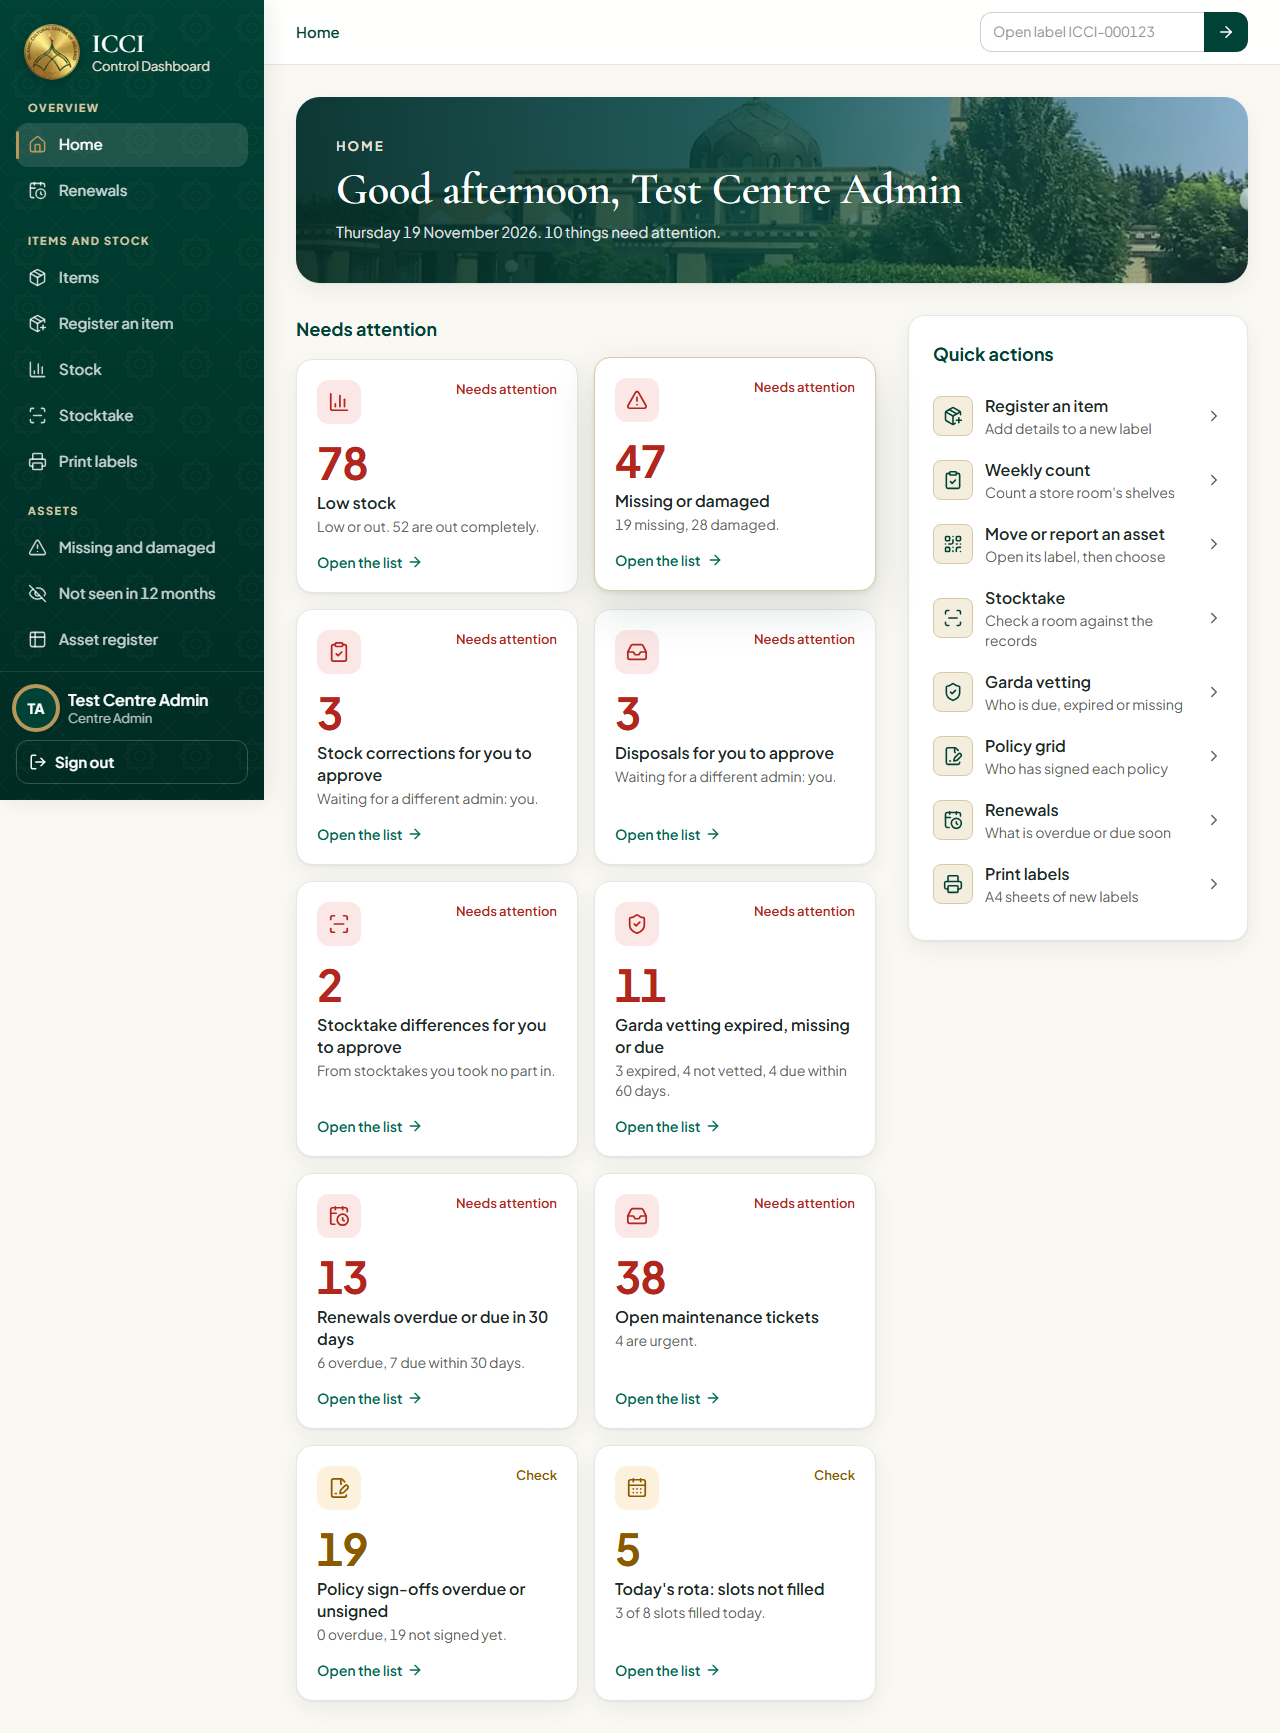
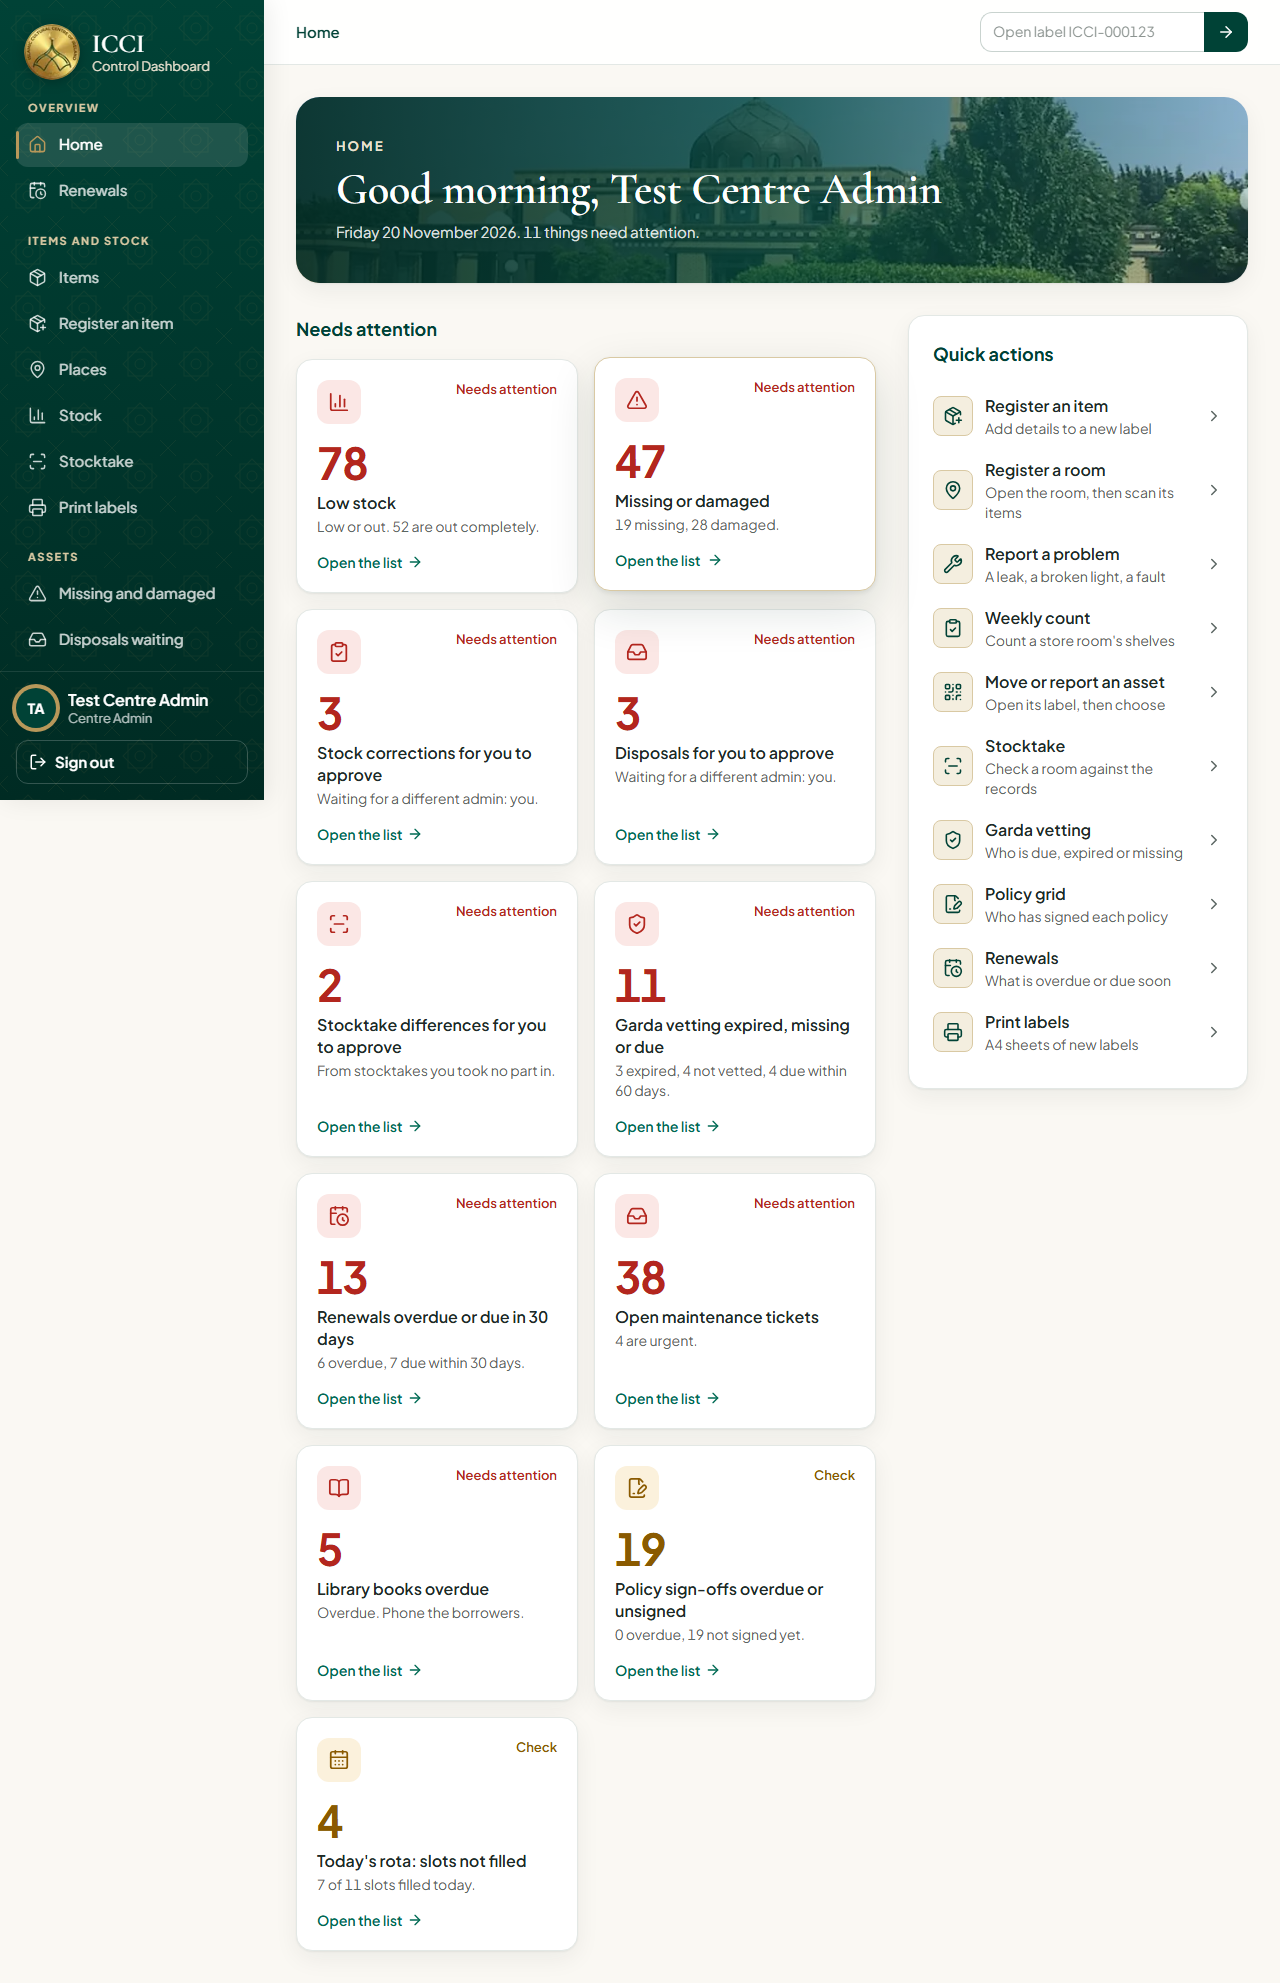
P1.16 Home and menu polish
Menu: Places now sits next to Register an item; Disposals waiting has its
own link under Assets (that page used to mark Missing and damaged as
current). Home quick actions add Register a room and Report a problem.

diff --git a/src/lib/ui/menu.ts b/src/lib/ui/menu.ts
@@ -12,6 +12,7 @@ export type IconKey =
   | "labels"
   | "places"
   | "missing"
+  | "disposals"
   | "notSeen"
   | "assetRegister"
   | "people"
@@ -67,16 +68,18 @@ export const MENU: MenuGroup[] = [
     links: [
       { href: "/items", label: "Items", icon: "items", roles: ADMINS, also: ["/l", "/labels/unknown", "/scan"] },
       { href: "/items/new", label: "Register an item", icon: "register", roles: ADMINS },
+      // P1.16: next to "Register an item", as a whole room is registered from its place.
+      { href: "/places", label: "Places", icon: "places", roles: ADMINS, also: ["/p"] },
       { href: "/stock", label: "Stock", icon: "stock", roles: ADMINS },
       { href: "/stocktake", label: "Stocktake", icon: "stocktake", roles: ADMINS },
       { href: "/labels", label: "Print labels", icon: "labels", roles: ADMINS },
-      { href: "/places", label: "Places", icon: "places", roles: ADMINS, also: ["/p"] },
     ],
   },
   {
     title: "Assets",
     links: [
       { href: "/assets", label: "Missing and damaged", icon: "missing", roles: ADMINS },
+      { href: "/assets/approvals", label: "Disposals waiting", icon: "disposals", roles: ADMINS },
       { href: "/assets/not-seen", label: "Not seen in 12 months", icon: "notSeen", roles: ADMINS },
       { href: "/assets/register", label: "Asset register", icon: "assetRegister", roles: ADMINS },
       { href: "/vehicles", label: "Vehicles", icon: "vehicles", roles: ADMINS },

diff --git a/tests/unit/menu.test.ts b/tests/unit/menu.test.ts
@@ -15,6 +15,11 @@ describe("menuFor: each role sees only what it can use", () => {
     expect(labels("library_operator")).toEqual(["Home", "Library", "Add a book", "Lend", "Return", "Borrowers", "On loan", "Overdue", "Most borrowed", "Lost and withdrawn"]);
     expect(menuFor("finance").map((g) => g.title)).toEqual(["Overview"]);
   });
+  it("P1.16: Places sits next to Register an item; Disposals waiting is under Assets", () => {
+    const items = MENU.find((g) => g.title === "Items and stock")!.links.map((l) => l.label);
+    expect(items.indexOf("Places")).toBe(items.indexOf("Register an item") + 1);
+    expect(MENU.find((g) => g.title === "Assets")!.links.map((l) => l.label)).toContain("Disposals waiting");
+  });
   it("an unknown role sees nothing", () => {
     expect(menuFor("someone_else")).toEqual([]);
   });
@@ -40,7 +45,9 @@ describe("activeLink: which link is marked as the current page", () => {
     ["/places/abc/labels", "Places"],
     ["/p/PL-0007", "Places"],
     ["/assets", "Missing and damaged"],
-    ["/assets/approvals", "Missing and damaged"],
+    // P1.16: Disposals waiting has its own link, so the menu marks the right one.
+    ["/assets/approvals", "Disposals waiting"],
+    ["/places/abc/register", "Places"],
     ["/assets/not-seen", "Not seen in 12 months"],
     ["/assets/register", "Asset register"],
     ["/people", "People"],

diff --git a/src/app/(app)/page.tsx b/src/app/(app)/page.tsx
@@ -17,12 +17,14 @@ import {
   ClipboardCheck,
   FileSignature,
   Inbox,
+  MapPin,
   PackagePlus,
   Printer,
   QrCode,
   ScanLine,
   ShieldCheck,
   TriangleAlert,
+  Wrench,
   type LucideIcon,
 } from "lucide-react";
 import { Suspense } from "react";
@@ -136,6 +138,8 @@ async function HomeContent() {
           <CardTitle>Quick actions</CardTitle>
           <div className="-mx-3 flex flex-col">
             <QuickAction href="/items/new" icon={PackagePlus} label="Register an item" hint="Add details to a new label" />
+            <QuickAction href="/places" icon={MapPin} label="Register a room" hint="Open the room, then scan its items" />
+            <QuickAction href="/tickets/new" icon={Wrench} label="Report a problem" hint="A leak, a broken light, a fault" />
             <QuickAction href="/stock/count" icon={ClipboardCheck} label="Weekly count" hint="Count a store room's shelves" />
             <QuickAction href="/scan" icon={QrCode} label="Move or report an asset" hint="Open its label, then choose" />
             <QuickAction href="/stocktake" icon={ScanLine} label="Stocktake" hint="Check a room against the records" />

diff --git a/tests/e2e/home.spec.ts b/tests/e2e/home.spec.ts
@@ -41,7 +41,7 @@ test("home page counters match their lists and open them", async ({ page }, info
   );
   // Every card in "Needs attention" says so in words, not colour alone.
   for (const card of await attentionCards.all()) await expect(card).toContainText(/Needs attention|Check/);
-  for (const action of ["Register an item", "Weekly count", "Move or report an asset", "Stocktake", "Garda vetting", "Print labels"]) {
+  for (const action of ["Register an item", "Register a room", "Report a problem", "Weekly count", "Move or report an asset", "Stocktake", "Garda vetting", "Print labels"]) {
     await expect(page.getByRole("link", { name: new RegExp(`^${action}`) }).last()).toBeVisible();
   }
 

diff --git a/src/components/shell/icons.tsx b/src/components/shell/icons.tsx
@@ -1,5 +1,6 @@
 // Which Lucide icon each menu link uses (docs/UI-PLAN.md 3.6).
 import {
+  Inbox,
   CalendarClock,
   CalendarDays,
   Car,
@@ -46,6 +47,7 @@ export const MENU_ICONS: Record<IconKey, LucideIcon> = {
   labels: Printer,
   places: MapPin,
   missing: TriangleAlert,
+  disposals: Inbox,
   notSeen: EyeOff,
   assetRegister: Table2,
   people: Users,
